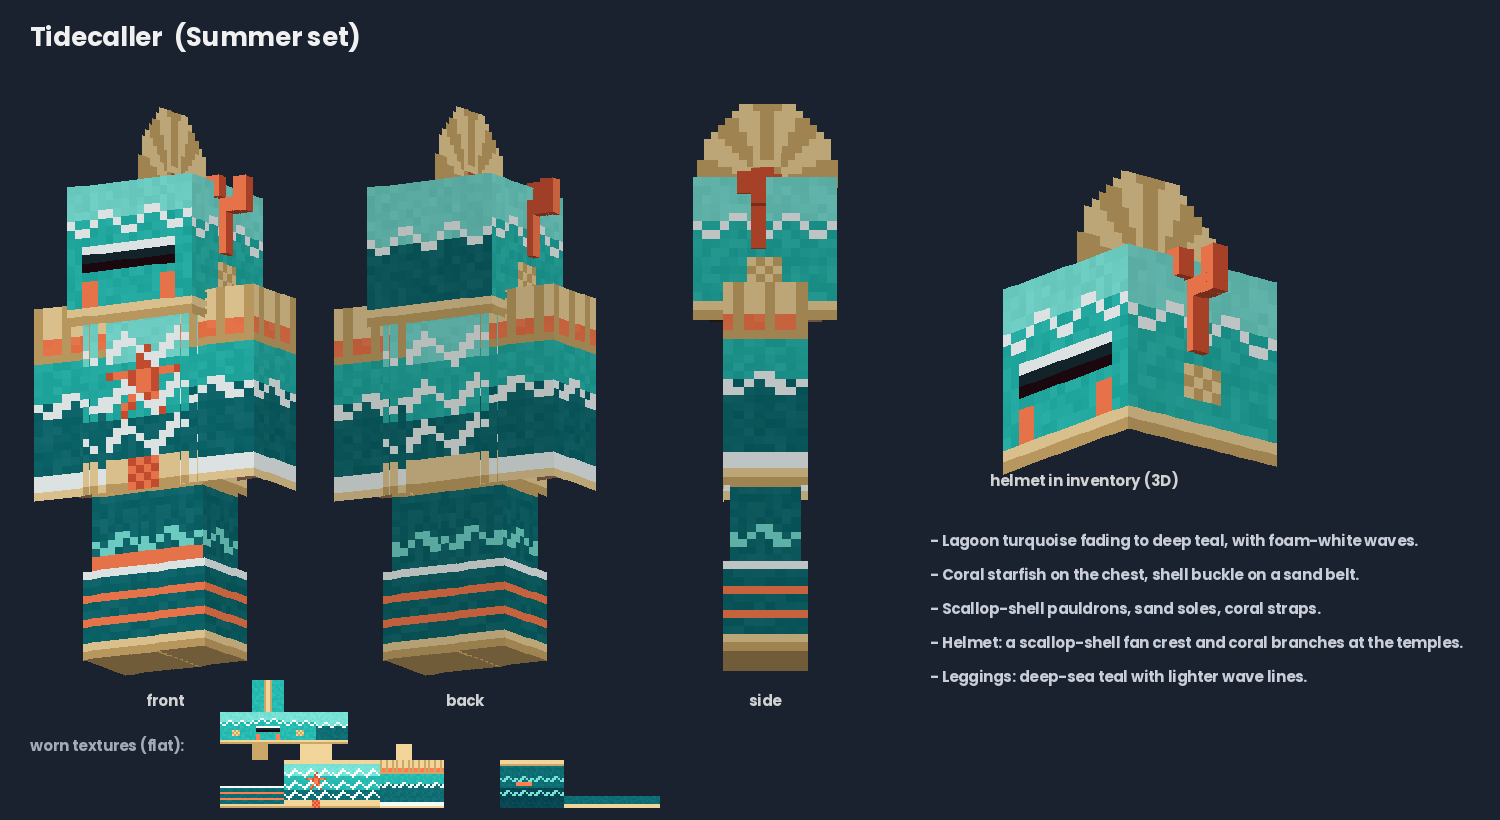
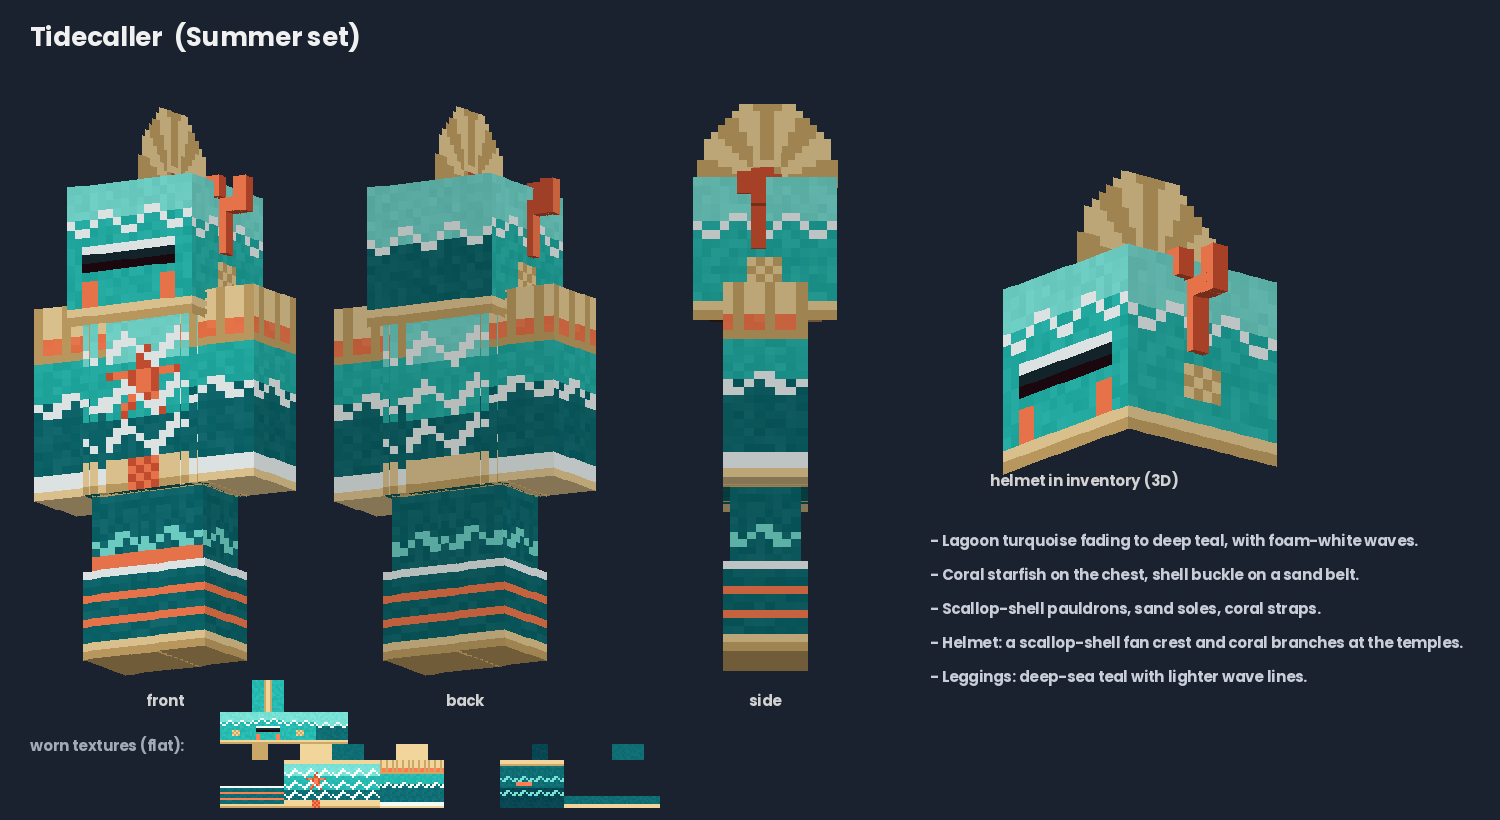
Concepts: Thornheart replaces Heartbreaker; fill armor undersides
Claude-Session: https://claude.ai/code/session_01UtexKntMTy5LWKErqeLgdQ

diff --git a/resource-pack/concepts/new-sets/design.py b/resource-pack/concepts/new-sets/design.py
@@ -159,6 +159,165 @@ def heartbreaker_helmet3d(dy=0):
         Q += solid(x, 29.0+dy, -1.0, 0.5, 4.5, 7.0, wm)
     return Q
 
+
+# ============================================================== THORNHEART (Valentines)
+BK = (30, 24, 30); BKL = (52, 42, 50); WN = (74, 14, 32); WNL = (104, 22, 44)
+RO = (196, 26, 50); ROL = (238, 74, 90); ROD = (128, 12, 32)
+LF = (88, 158, 70); LFD = (46, 110, 50); TH = (196, 176, 132)
+
+def metal(u, v, seed):
+    """black plate with a faint wine sheen"""
+    c = BKL if (u % 8 == 0 or v % 8 == 0) else BK     # subtle plate seams
+    return noise(c, u, v, seed, 4)
+
+def around(face, u, W, D):
+    """position along the perimeter of a limb or body, so vines wrap around continuously."""
+    order = {'front': 0, 'left': W, 'back': W + D, 'right': 2*W + D}
+    return order.get(face, 0) + u
+
+def vine(face, u, v, W, H, D, seed=0, slope=0.55, period=None, thick=1.5):
+    """returns 'v' on a vine, 't' on a thorn, 'l' on a leaf, else None"""
+    P = (W + D) if period is None else period          # two vines spiral around each part
+    p = around(face, u, W, D)
+    y = (v + seed) * slope
+    d = (p - y) % P
+    if min(d, P - d) < thick:
+        return 'v'
+    if thick <= d <= thick + 1.2 and int(v + seed) % 4 == 0: return 't'
+    if P - thick - 1.8 <= d <= P - thick and int(v + seed) % 6 == 3: return 'l'
+    return None
+
+def vine_color(k, u, v):
+    return {'v': noise(LFD, u, v, 40, 6), 't': TH, 'l': LF}[k]
+
+def rose(u, v, cx, cy, r):
+    """a little rose bloom: spiral of petals"""
+    dx, dy = u - cx, v - cy; d = math.hypot(dx, dy)
+    if d > r: return None
+    a = math.atan2(dy, dx)
+    swirl = (a / (2*math.pi) * 2 + d / r * 1.6) % 1
+    if d < r*0.28: return ROD
+    return ROL if swirl < 0.33 else (RO if swirl < 0.75 else ROD)
+
+def thorn_helmet(face, u, v, W, H):
+    if face == 'bottom': return metal(u, v, 41)
+    if face == 'top':
+        k = vine('front', u + v, v, W, H, W, 3, 0.9, 10)
+        return vine_color(k, u, v) if k else metal(u, v, 42)
+    if v >= H-2: return noise(WN, u, v, 43, 5) if v == H-2 else noise(ROD, u, v, 43, 4)
+    if face == 'front':
+        # classic knight T-visor
+        if 6 <= v <= 7 and 3 <= u <= W-4: return VOID
+        if W//2-1 <= u <= W//2 and 6 <= v <= 11: return VOID
+        if v == 5 and 3 <= u <= W-4: return noise(WNL, u, v, 44, 4)
+        k = vine(face, u, v, W, H, W, 1)
+        if k and not (2 <= u <= W-3 and 4 <= v <= 12): return vine_color(k, u, v)
+        return metal(u, v, 45)
+    if face == 'right' or face == 'left':
+        r = rose(u, v, W*0.55, H*0.45, 3.2) if face == 'left' else None
+        if r: return r
+    k = vine(face, u, v, W, H, W, 1)
+    return vine_color(k, u, v) if k else metal(u, v, 46)
+
+def thorn_body(face, u, v, W, H):
+    if face == 'top': return noise(WN, u, v, 50, 4)
+    if face == 'bottom': return metal(u, v, 51)
+    if v <= 1: return noise(WN, u, v, 52, 4)
+    if H-3 <= v: return noise(WN, u, v, 53, 4) if v < H-1 else noise(ROD, u, v, 53, 4)   # belt
+    if face == 'front':
+        r = rose(u, v, W/2-0.5, H*0.4, 5.2)
+        if r: return r
+        dx, dy = u - (W/2-0.5), v - H*0.4
+        # leaves on each side of the big rose
+        if 5.2 < math.hypot(dx, dy) < 7.5 and abs(dy + abs(dx)*0.35) < 1.3 and abs(dx) > 3: return LF
+    k = vine(face, u, v, W, H, 8, 0, 0.45)
+    if k: return vine_color(k, u, v)
+    return noise(WN, u, v, 54, 5) if (v > H*0.7) else metal(u, v, 55)
+
+def thorn_arm(face, u, v, W, H):
+    if face == 'top':                                               # rose blooming on the shoulder
+        return rose(u, v, W/2-0.5, W/2-0.5, W/2+0.6) or noise(ROD, u, v, 60, 4)
+    if face == 'bottom': return metal(u, v, 61)
+    if v < 6:
+        r = rose(u, v, W/2-0.5, -0.5, 6.0)
+        if r: return r
+        if v == 5 or v == 4 and u % 3 == 0: return LF
+    if H-2 <= v: return noise(WN, u, v, 62, 4)
+    k = vine(face, u, v, W, H, W, 2, 0.6)
+    return vine_color(k, u, v) if k else metal(u, v, 63)
+
+def thorn_boot(face, u, v, W, H):
+    if face == 'top': return None
+    if face == 'bottom': return noise(BK, u, v, 70, 4)
+    if v < H-11: return None
+    if v >= H-2: return noise(WN, u, v, 71, 4) if v == H-2 else noise(BK, u, v, 71, 3)
+    if v == H-11: return noise(ROD, u, v, 72, 4)
+    k = vine(face, u, v, W, H, W, 4, 0.8)
+    return vine_color(k, u, v) if k else metal(u, v, 73)
+
+def thorn_legs(face, u, v, W, H):
+    if face == 'top': return None
+    if face == 'bottom': return noise(WN, u, v, 80, 4)
+    if v <= 2: return noise(ROD, u, v, 81, 4) if v < 2 else noise(BK, u, v, 81, 4)
+    if face == 'front' and 9 <= v <= 13:                          # rose on each knee
+        r = rose(u, v, W/2-0.5, 11, 2.6)
+        if r: return r
+    k = vine(face, u, v, W, H, W, 5, 0.5)
+    if k: return vine_color(k, u, v)
+    return noise(WN if (u + v // 3) % 5 else WNL, u, v, 82, 5)
+
+def thorn_leg_body(face, u, v, W, H):
+    if face in ('top', 'bottom'): return None if face == 'top' else noise(WN, u, v, 83, 4)
+    if v < H-6: return None
+    if v >= H-2: return noise(ROD, u, v, 84, 4)
+    return noise(WN, u, v, 85, 5)
+
+def thornheart_layers():
+    l1 = Image.new('RGBA', (128, 64), (0, 0, 0, 0)); l2 = Image.new('RGBA', (128, 64), (0, 0, 0, 0))
+    paint(l1, 0, 0, 8, 8, 8, thorn_helmet)
+    paint(l1, 16, 16, 8, 12, 4, thorn_body)
+    paint(l1, 40, 16, 4, 12, 4, thorn_arm)
+    paint(l1, 0, 16, 4, 12, 4, thorn_boot)
+    paint(l2, 16, 16, 8, 12, 4, thorn_leg_body)
+    paint(l2, 0, 16, 4, 12, 4, thorn_legs)
+    return l1, l2
+
+def thornheart_helmet3d(dy=0):
+    Q = []
+    V1 = (70, 128, 62, 255); V2 = (42, 88, 46, 255); T = (176, 150, 104, 255); TD = (124, 98, 64, 255)
+    def vinec(face, u, v, fw, fh):
+        return V1 if face in ('top', 'front', 'left') else V2
+    def thornc(face, u, v, fw, fh):
+        return T if face in ('top', 'front', 'right') else TD
+    # crown of twisted thorny vines around the top of the helmet
+    n = 28
+    for strand, (rad, ph) in enumerate(((4.9, 0.0), (5.1, 1.7))):   # two twisted strands
+        for i in range(n):
+            a = i / n * 2 * math.pi
+            x = math.cos(a) * rad; z = math.sin(a) * rad
+            y = 32.3 + 0.7 * math.sin(a * 4 + ph)
+            Q += solid(x - 0.75, y + dy, z - 0.75, 1.5, 1.2, 1.5, vinec)
+    for i in range(14):                                           # thorns pointing up and outward
+        a = i / 14 * 2 * math.pi + 0.2
+        x = math.cos(a) * 5.6; z = math.sin(a) * 5.6
+        y = 32.6 + 0.7 * math.sin(a * 4)
+        Q += solid(x - 0.3, y + 1.0 + dy, z - 0.3, 0.6, 0.9 + (i % 3) * 0.5, 0.6, thornc)
+        Q += solid(x + math.cos(a) * 0.6 - 0.25, y + 0.5 + dy, z + math.sin(a) * 0.6 - 0.25, 0.5, 0.5, 0.5, thornc)
+    # one rose with leaves on the left side of the crown
+    R1 = (238, 74, 90, 255); R2 = (196, 26, 50, 255); R3 = (128, 12, 32, 255)
+    def petals(face, u, v, fw, fh):
+        if face == 'top':
+            c = rose(u, v, fw/2-0.5, fh/2-0.5, max(fw, fh)/2+0.4)
+            return (c + (255,)) if c else R2
+        if face == 'bottom': return R3
+        return R1 if v == 0 else (R2 if (u + v) % 3 else R3)
+    # layered bloom: wide outer petals, a narrower middle ring, a tight spiral bud on top
+    for (w, h, y0) in ((3.4, 1.2, 32.4), (2.8, 1.1, 33.5), (2.0, 1.0, 34.5), (1.2, 0.7, 35.4)):
+        Q += solid(5.3 - w/2, y0 + dy, -3.9 - w/2, w, h, w, petals)
+    Q += solid(2.4, 32.2 + dy, -5.0, 1.4, 0.6, 2.4, lambda f, u, v, fw, fh: (88, 158, 70, 255))
+    Q += solid(6.4, 32.2 + dy, -3.4, 1.4, 0.6, 2.4, lambda f, u, v, fw, fh: (88, 158, 70, 255))
+    return Q
+
 # ============================================================== TIDECALLER (Summer)
 TQ = (38, 186, 176); TQL = (120, 226, 214); TD = (14, 110, 115); DEEP = (8, 70, 82)
 SAND = (242, 213, 155); SANDD = (204, 168, 104); CO = (255, 127, 80); COD = (214, 84, 52); FOAM = (244, 252, 250)
@@ -193,7 +352,7 @@ def tide_helmet(face, u, v, W, H):
     return base
 
 def tide_body(face, u, v, W, H):
-    if face == 'bottom': return None
+    if face == 'bottom': return noise(TD, u, v, 32, 4)
     if face == 'top': return SAND
     if v <= 1: return SAND
     if H-4 <= v:                                                     # sand belt + shell buckle
@@ -211,7 +370,7 @@ def tide_body(face, u, v, W, H):
     return base
 
 def tide_arm(face, u, v, W, H):
-    if face == 'bottom': return None
+    if face == 'bottom': return SAND
     if face == 'top': return SAND
     if v < 7:                                                        # scallop-shell pauldron
         ridge = u % 3 == 0
@@ -230,14 +389,16 @@ def tide_boot(face, u, v, W, H):
     return noise(TD, u, v, 28, 6)
 
 def tide_legs(face, u, v, W, H):
-    if face in ('top', 'bottom'): return None
+    if face == 'bottom': return noise(DEEP, u, v, 31, 4)
+    if face == 'top': return None
     if v <= 2: return SAND if v < 2 else SANDD
     if wave(u, v, W, H, 9.0, 1.0, 5) or wave(u, v, W, H, 16.0, 1.0, 5): return TQL
     if 11 <= v <= 12 and face == 'front': return CO
     return noise(DEEP if v > 13 else TD, u, v, 29, 6)
 
 def tide_leg_body(face, u, v, W, H):
-    if face in ('top', 'bottom'): return None
+    if face == 'bottom': return noise(TD, u, v, 33, 4)
+    if face == 'top': return None
     if v < H-6: return None
     if v >= H-2: return SAND
     return noise(TD, u, v, 30, 6)
@@ -303,13 +464,13 @@ def worn(l1, l2, extra, helmet_flat=True):
 def icon_q(l1, extra_fn):
     return texbox(l1, 0, 0, -4, 0, -4, 8, 8, 8, 1.1) + extra_fn(-24)
 
-hb1, hb2 = heartbreaker_layers(); tc1, tc2 = tidecaller_layers()
+th1, th2 = thornheart_layers(); tc1, tc2 = tidecaller_layers()
 w1 = tint('leather_layer_1.png', 'leather_layer_1_overlay.png', '#A8DCFF')
 w2 = tint('leather_layer_2.png', 'leather_layer_2_overlay.png', '#A8DCFF')
 cm1 = Image.open('chainmail_layer_1.png').convert('RGBA'); cm2 = Image.open('chainmail_layer_2.png').convert('RGBA')
 
 out = os.path.join(HERE)
-for name, img in (('heartbreaker_layer_1', hb1), ('heartbreaker_layer_2', hb2),
+for name, img in (('thornheart_layer_1', th1), ('thornheart_layer_2', th2),
                   ('tidecaller_layer_1', tc1), ('tidecaller_layer_2', tc2)):
     img.save(os.path.join(out, name + '.png'))
 
@@ -324,7 +485,7 @@ def winter_icon(dy):
 SETS = [
     ('Agamemnon', 'existing concept', cm1, cm2, lambda dy=0: helmet3d(0, dy, 0), False),
     ('Winter Nova', 'existing, keeps its look', w1, w2, lambda dy=0: winter_icon(dy), True),
-    ('Heartbreaker', 'NEW  -  Valentines', hb1, hb2, heartbreaker_helmet3d, True),
+    ('Thornheart', 'NEW  -  Valentines', th1, th2, thornheart_helmet3d, True),
     ('Tidecaller', 'NEW  -  Summer', tc1, tc2, tidecaller_helmet3d, True),
 ]
 
@@ -346,11 +507,11 @@ sheet.convert('RGB').save(os.path.join(out, 'all-sets-preview.png'))
 
 # ---- close-up sheets for the two new sets
 NOTES = {
-    'Heartbreaker': ['Crimson + rose-gold knight with a heart-shaped visor.',
-                     'Pink heart emblem on the chest, lace trim, heart belt buckle.',
-                     'Layered rose-petal pauldrons, white cuffs.',
-                     "Helmet: Cupid's arrow pierced straight through it, plus small wings.",
-                     'Boots: tiny cupid wings on the outer ankles.'],
+    'Thornheart':   ['A dark knight overgrown with roses.',
+                     'Black plate with a deep wine sheen; a big rose blooms on the chest.',
+                     'Roses bloom on the shoulders; thorny vines wrap the arms and legs.',
+                     'Helmet: knight T-visor, a 3D crown of thorns and one red rose.',
+                     'Leggings: wine-red with a rose on each knee.'],
     'Tidecaller':   ['Lagoon turquoise fading to deep teal, with foam-white waves.',
                      'Coral starfish on the chest, shell buckle on a sand belt.',
                      'Scallop-shell pauldrons, sand soles, coral straps.',

diff --git a/resource-pack/concepts/README.md b/resource-pack/concepts/README.md
@@ -6,7 +6,7 @@ Brainstorm work kept for reference. Nothing here is loaded by the server or the 
   custom helmet, item icons, worn layers and the scripts that drew them (`warlord-preview.png`).
 - `helmets-3d/` - 3D helmet concepts and renders (`warlord-3d-preview.png`, `helmets-3d-preview.png`).
   The Valentines/Summer helmets in there were drawn as Nova variants; those sets are being redesigned.
-- `new-sets/` - the redesigned sets: **Heartbreaker** (Valentines: crimson/rose-gold, heart visor,
-  Cupid's-arrow helmet) and **Tidecaller** (Summer: lagoon turquoise, waves, scallop-shell crest),
+- `new-sets/` - the redesigned sets: **Thornheart** (Valentines: black knight overgrown with roses,
+  thorny vines, 3D crown of thorns with a rose; replaced the earlier Heartbreaker idea) and **Tidecaller** (Summer: lagoon turquoise, waves, scallop-shell crest),
   plus `all-sets-preview.png` with Agamemnon and Winter Nova. Run `python3 new-sets/design.py`.
   Designs only - no stats or enchants decided yet (only Winter Nova has enchants so far).
